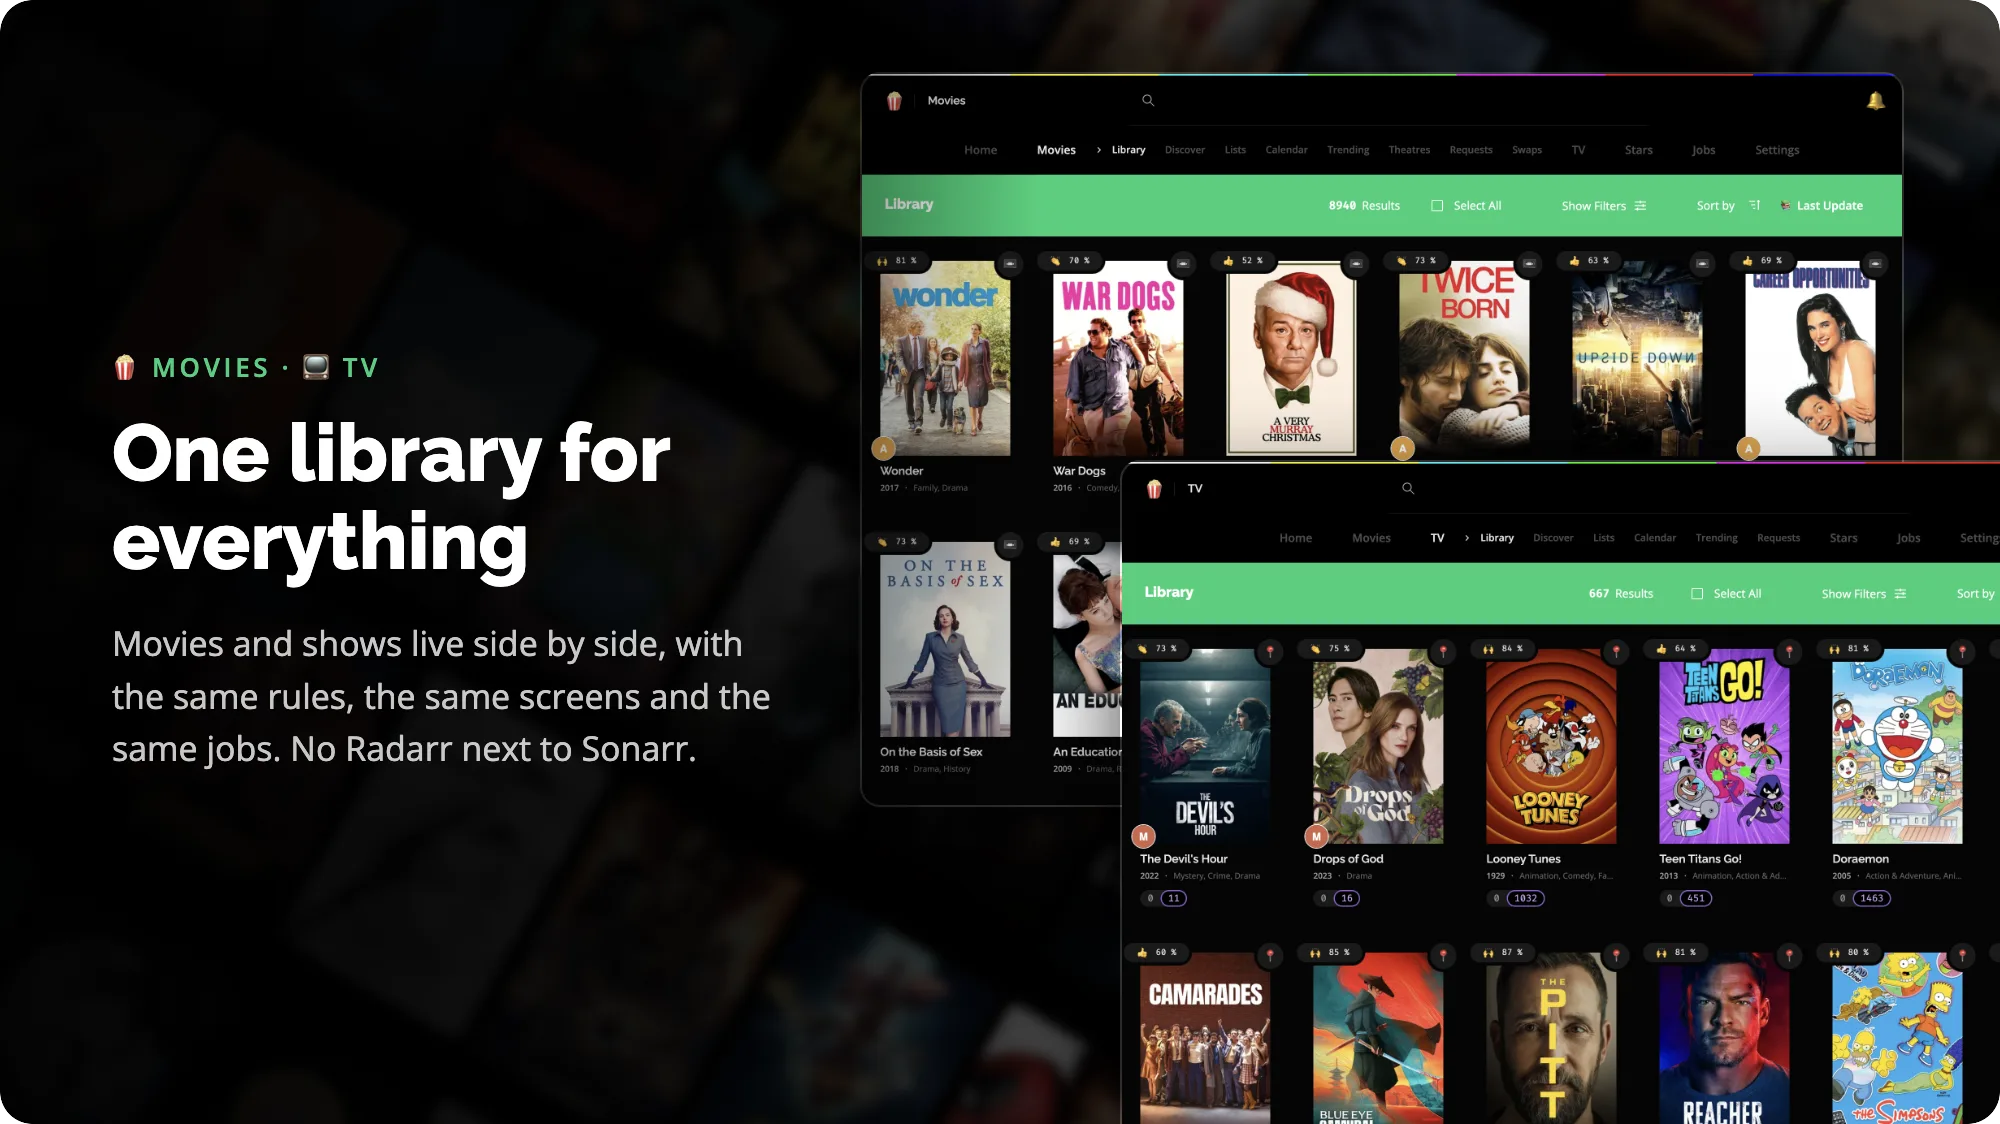
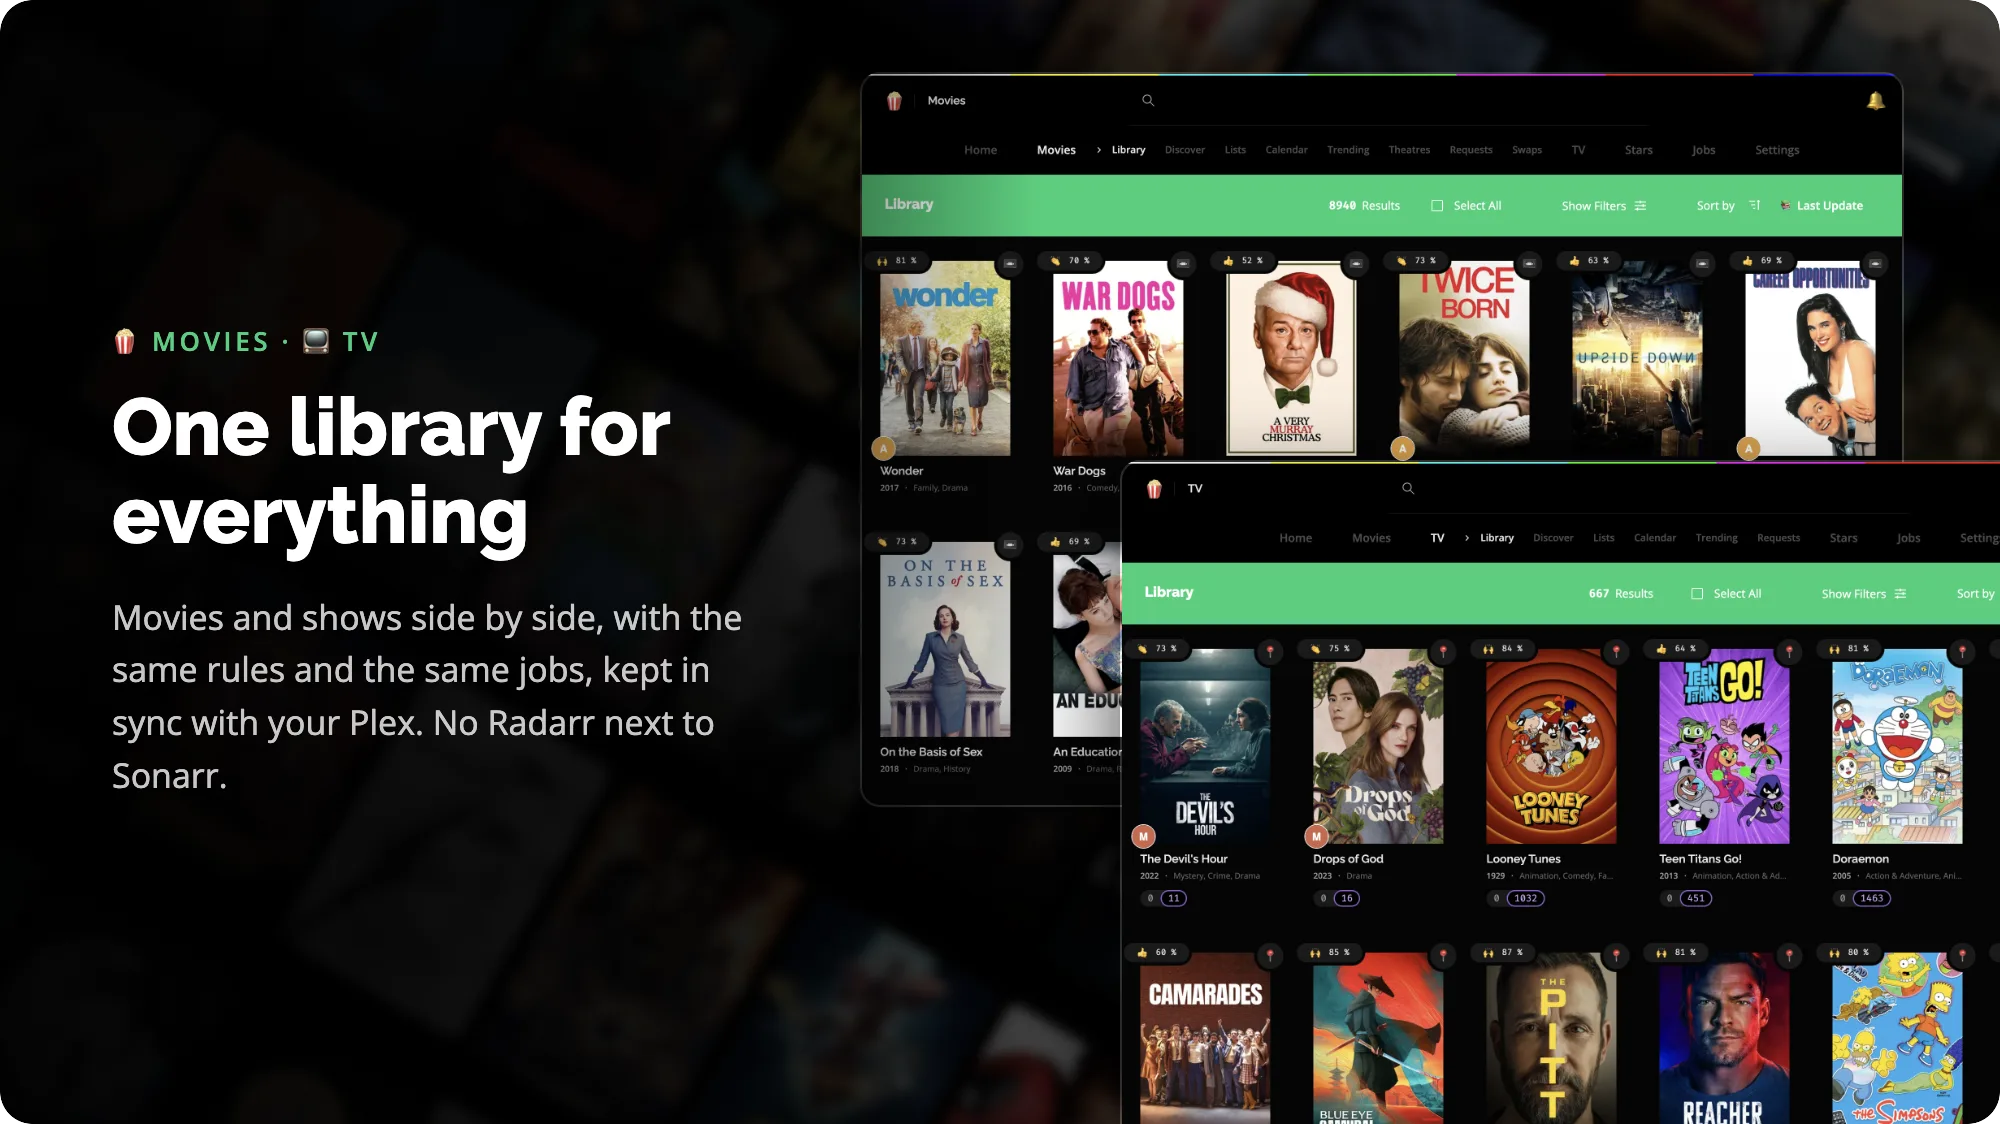
docs(readme): a tile for the report job, Plex sync and Tautulli folded into their tiles

Changed region(s): [[0.031, 0.2802, 0.372, 0.7162]]

diff --git a/README.md b/README.md
@@ -34,7 +34,7 @@
   <img src="docs/assets/readme/hero.webp" width="100%" alt="Sensorr's Home on a desktop browser and on an iPhone">
 </p>
 
-<img src="docs/assets/readme/movies-tv.webp" width="100%" alt="One library for everything. Movies and shows live side by side, with the same rules, the same screens and the same jobs. No Radarr next to Sonarr.">
+<img src="docs/assets/readme/movies-tv.webp" width="100%" alt="One library for everything. Movies and shows side by side, with the same rules and the same jobs, kept in sync with your Plex. No Radarr next to Sonarr.">
 
 <img src="docs/assets/readme/seasons.webp" width="100%" alt="Whole series, seasons or episodes. Follow a show, a season or a single episode. Sensorr looks for the whole series first, then season packs, then episodes, and hard links finished files into your library.">
 
@@ -42,19 +42,18 @@
 
 <img src="docs/assets/readme/swaps.webp" width="100%" alt="Better, then lighter. Refine looks for a release closer to your policy, Shrink for a smaller one that loses nothing. Each swap shows what changes, and the space it frees.">
 
+<img src="docs/assets/readme/report.webp" width="100%" alt="Reports from Plex, answered. A friend reports an issue on a movie in Plex. Sensorr bans the release they watched, and finds another one to swap in.">
+
 <img src="docs/assets/readme/people.webp" width="100%" alt="Follow the people you love. Follow a director, an actor or a composer, and their next films land in your calendar, month by month.">
 
-<img src="docs/assets/readme/friends.webp" width="100%" alt="Requests and a yearly wrapped. Friends link their Plex account, and their watchlist becomes requests. Each year, they get a wrapped of what they watched on your server.">
+<img src="docs/assets/readme/friends.webp" width="100%" alt="Requests and a yearly wrapped. Friends link their Plex account, and their watchlist becomes requests. Each year, Tautulli's watch history gives them a wrapped of their year on your server.">
 
 <img src="docs/assets/readme/phone.webp" width="100%" alt="In your pocket. Install Sensorr on your phone like an app, and accept a proposal right from its notification.">
 
 ### And also
 
-- **Reports from Plex, answered.** A friend uses [*Report an Issue*](https://support.plex.tv/articles/share-and-report/) on a movie in Plex, and [`report`](docs/jobs.md#report) bans the release they watched and finds another one, proposed on the Swaps screen.
-- **[Plex](https://www.plex.tv/) in sync.** [`sync`](docs/jobs.md#sync) reads what Plex holds, so `refine` and `shrink` compare against your real files.
 - **Coming from Sonarr.** [`migrate sonarr`](docs/jobs.md#migrate-sonarr) takes over your series as Sonarr follows them.
 - **[Backups](#backup-and-restore) and [updates](#update-from-the-app)** from *Settings*, with a weekly dump once turned on.
-- **A wrapped for your friends**, from the Plex watch history [Tautulli](https://tautulli.com/) keeps, set in *Settings › Tautulli*.
 - **English and French**, for the interface, the mails and the wrapped.
 
 # Install
